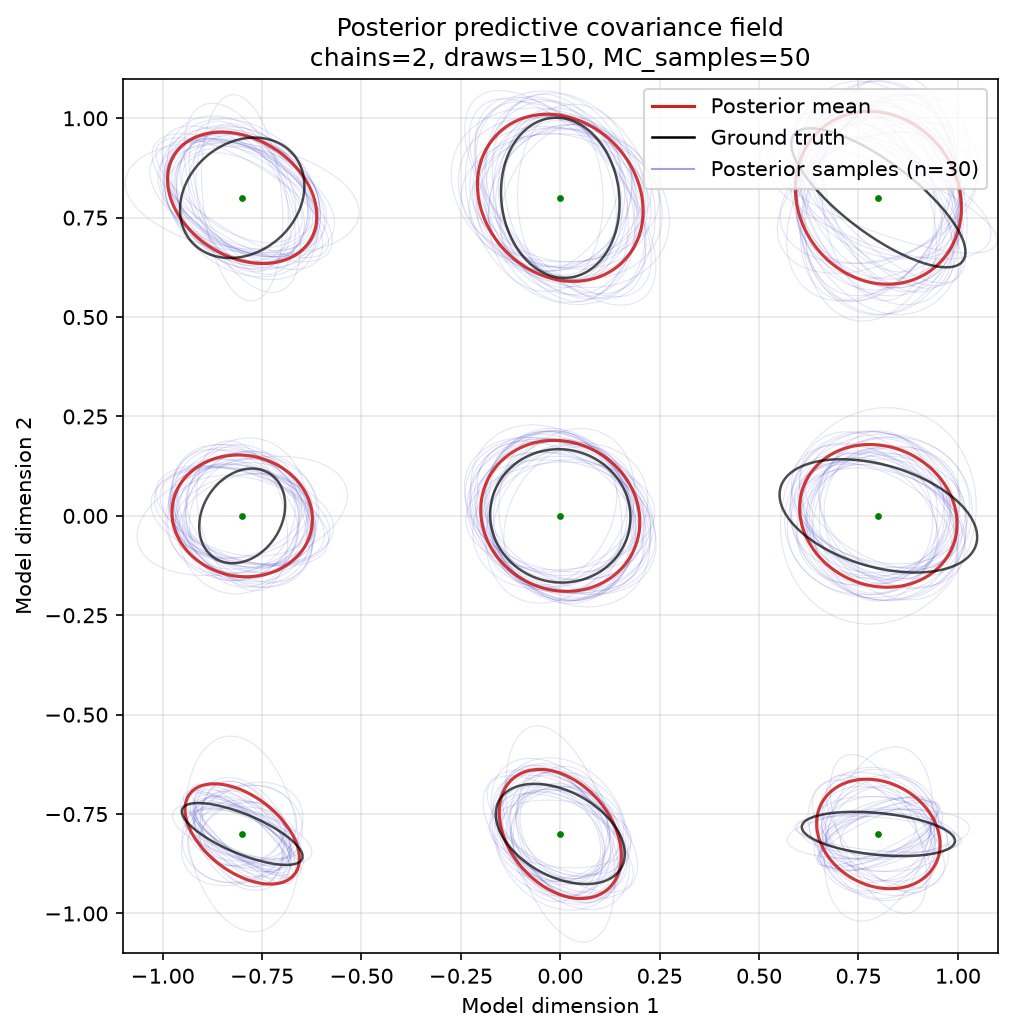
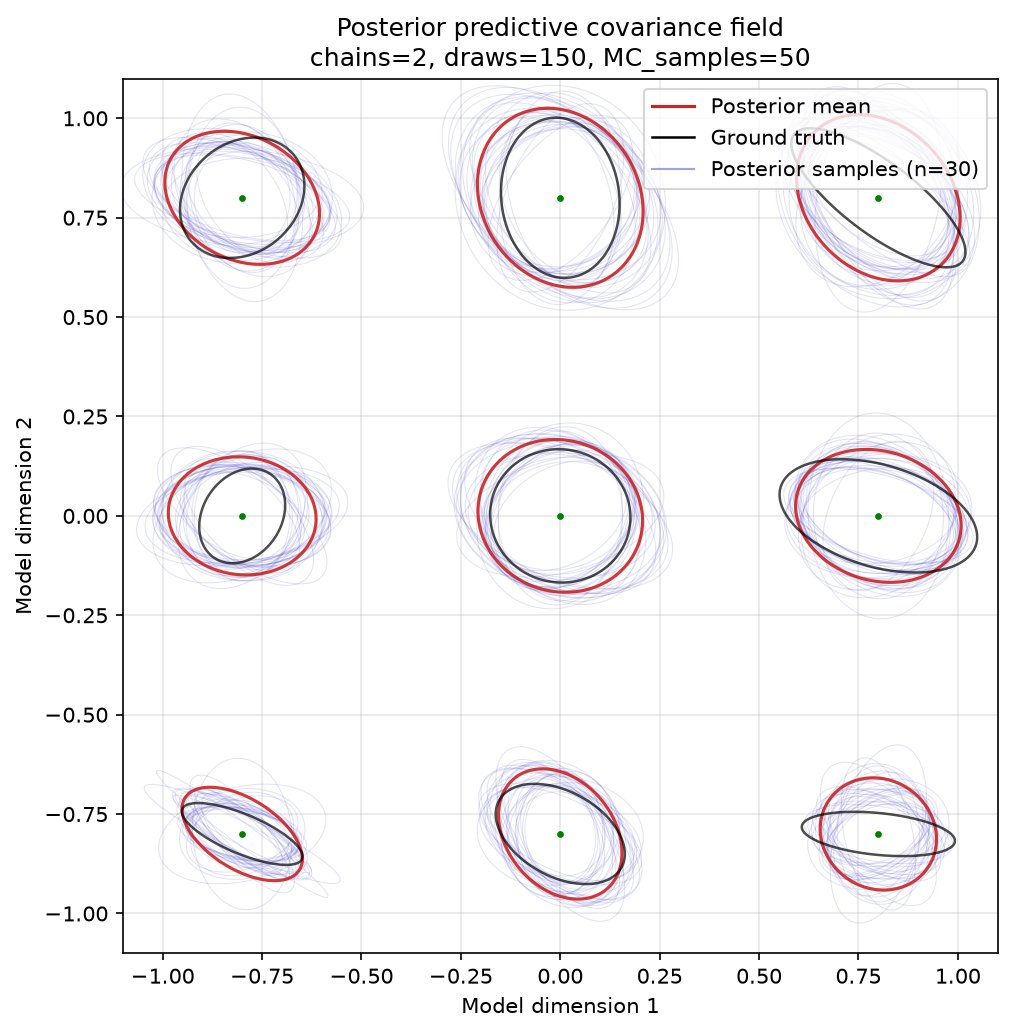
figs generated from quickstart and for docs: posterior mean covariance field in NUTS and covariance-field tutorials

diff --git a/docs/examples/wppm/nuts_inference_example.md b/docs/examples/wppm/nuts_inference_example.md
@@ -186,12 +186,19 @@ back is an `MCMCPosterior`, and these are the three things you will use from it:
 
 | call | returns | used in |
 |---|---|---|
-| `nuts_posterior.params` | the posterior mean of `W` | Step 6, the red "posterior mean" field |
 | `nuts_posterior.sample(n, key=...)` | `n` draws `{"W": (n, *W_shape)}` | Step 6, the ellipse ensemble |
+| `PosteriorMeanCovarianceField(nuts_posterior)` | the posterior mean covariance field E[Σ(x)] | Step 6, the red "posterior mean" ellipses |
 | `nuts_posterior.to_arviz()` | all chains, for diagnostics | Step 5 |
 
 `MCMCPosterior` and `MAPPosterior` share this interface, so code written for a MAP fit,
 for example `WPPMPredictivePosterior`, accepts a NUTS fit unchanged.
+
+!!! warning "Don't draw ellipses from `nuts_posterior.params`"
+    `nuts_posterior.params` is the average **parameter** E[W]. It is a valid parameter set
+    (you can pass it as `init_params`), but the covariance field built from it,
+    `WPPMCovarianceField(model, nuts_posterior.params)`, comes out far too small. Step 6
+    shows why and what to use instead. `WPPMCovarianceField.from_posterior` builds exactly
+    this field, so it warns when given an MCMC posterior.
 
 **What happens inside `fit`.** Each chain runs in two phases:
 
@@ -398,13 +405,51 @@ for exactly this reason, before drawing any conclusion from the numbers.
 --8<-- "docs/examples/wppm/nuts_inference_example.py:posterior_samples"
 ```
 
+Each draw gives one complete covariance field, so every blue ellipse below is a field the
+data cannot rule out. For a single summary field, the *posterior mean* E[Σ(x)], average the
+covariance matrices over all draws:
+
+```python title="Posterior mean covariance field"
+--8<-- "docs/examples/wppm/nuts_inference_example.py:posterior_mean"
+```
+
+??? note "Why the mean is computed from Σ, not from W"
+
+    The tempting shortcut is to average the parameters and build one field from the
+    result, `WPPMCovarianceField(model, nuts_posterior.params)`. That computes Σ(E[W]),
+    and for the WPPM it gives ellipses that are far too small.
+
+    The reason is that Σ(x) = U(x) U(x)ᵀ + λI, with U linear in W, so Σ is roughly
+    *W squared*. Squaring and then averaging is not the same as averaging and then
+    squaring. A one-number example with two draws, W = +1 and W = −1:
+
+    | | draw 1 | draw 2 | average |
+    |---|---|---|---|
+    | W | +1 | −1 | **0** |
+    | Σ = W² | 1 | 1 | **1** |
+
+    Both draws describe the same ellipse, Σ = 1. Averaging Σ gives 1, the right answer.
+    Averaging W first gives 0, and 0² = 0: the ellipse disappears.
+
+    The WPPM has this situation built in. Rotating `W` along its embedding axis (its
+    last axis) leaves Σ unchanged, so many different `W`s produce the same ellipses, and
+    different draws, especially from different chains, settle on different ones. On their
+    own each draw is fine. Averaged, they partly cancel. Even without that symmetry,
+    E[Σ] = Σ(E[W]) + Cov[U] holds exactly, so averaging W first always loses the spread
+    term and never gives larger ellipses.
+
+    `PosteriorMeanCovarianceField` computes Σ for every draw first and averages afterwards,
+    so neither effect applies. One thing to keep in mind: an average of covariance matrices
+    is somewhat larger than a typical single draw, because draws differ in size. That is
+    what a mean does, not an error.
+
 ```python title="Plot ensemble of ellipses"
 --8<-- "docs/examples/wppm/nuts_inference_example.py:plot_uncertainty"
 ```
 
 <div align="center">
   <img src="../plots/nuts_ellipses_uncertainty.jpg" width="600"/>
-  <p><em>Faint blue: 30 covariance fields sampled from the posterior. Red: posterior mean. Black: ground truth. The spread of blue ellipses shows where the model is uncertain.</em></p>
+  <p><em>Faint blue: 30 covariance fields sampled from the posterior. Red: posterior mean E[Σ(x)], averaged over all draws. Black: ground truth. The spread of blue ellipses shows where the model is uncertain.</em></p>
 </div>
 
 

diff --git a/docs/examples/covariance_field/covariance_field.md b/docs/examples/covariance_field/covariance_field.md
@@ -143,6 +143,14 @@ You can sample multiple fields from the prior or create fields from custom param
 | `from_posterior(posterior)` | Extract fitted field | Analysis after fitting |
 | `from_params(model, params)` | Custom parameters | testing / load fitted params from e.g. different subject |
 
+`from_posterior` builds the field from `posterior.params`, a single parameter set. For a
+MAP fit that is θ_MAP, which is what you want. For a **sample-based posterior** (e.g. from
+`NUTSSampler`), `params` is the average parameter E[W], and the field built from it is
+systematically too small, so `from_posterior` warns. Use
+`PosteriorMeanCovarianceField(posterior)` instead: it evaluates Σ for every posterior
+draw and averages the matrices, giving E[Σ(x)]. See the
+[NUTS tutorial](../wppm/nuts_inference_example.md) (Step 6) for why.
+
 ### Evaluation Methods
 
 | Method | Input Shape | Output Shape | Description |
